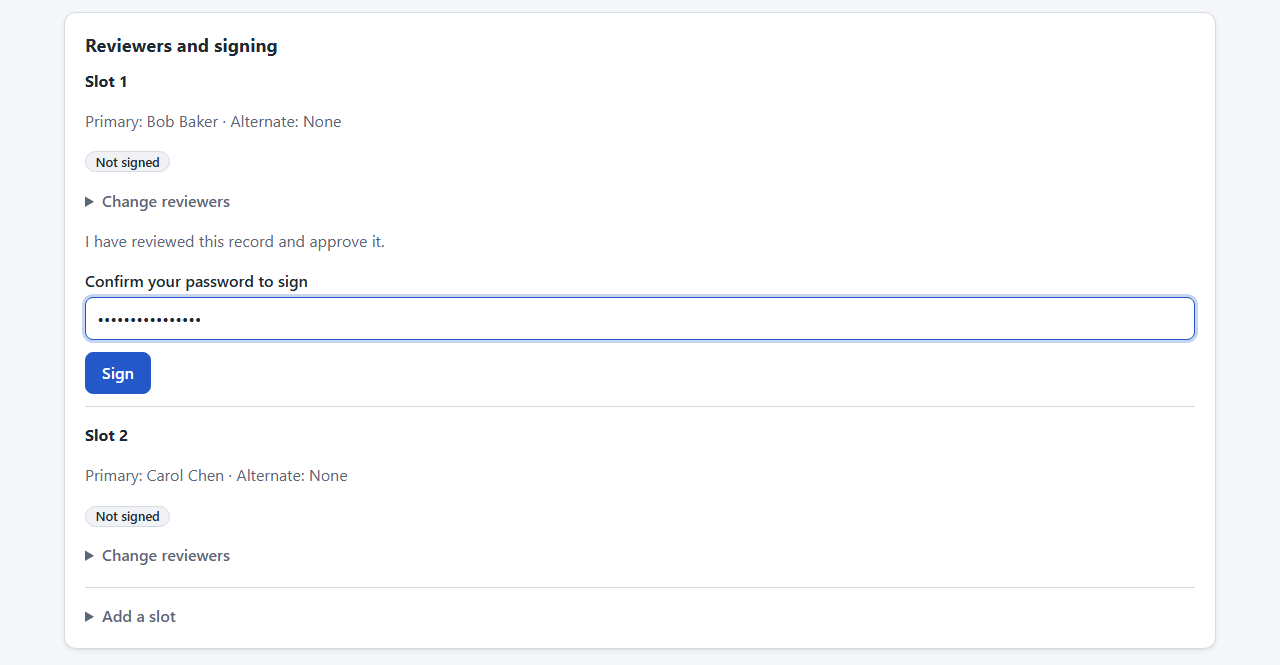
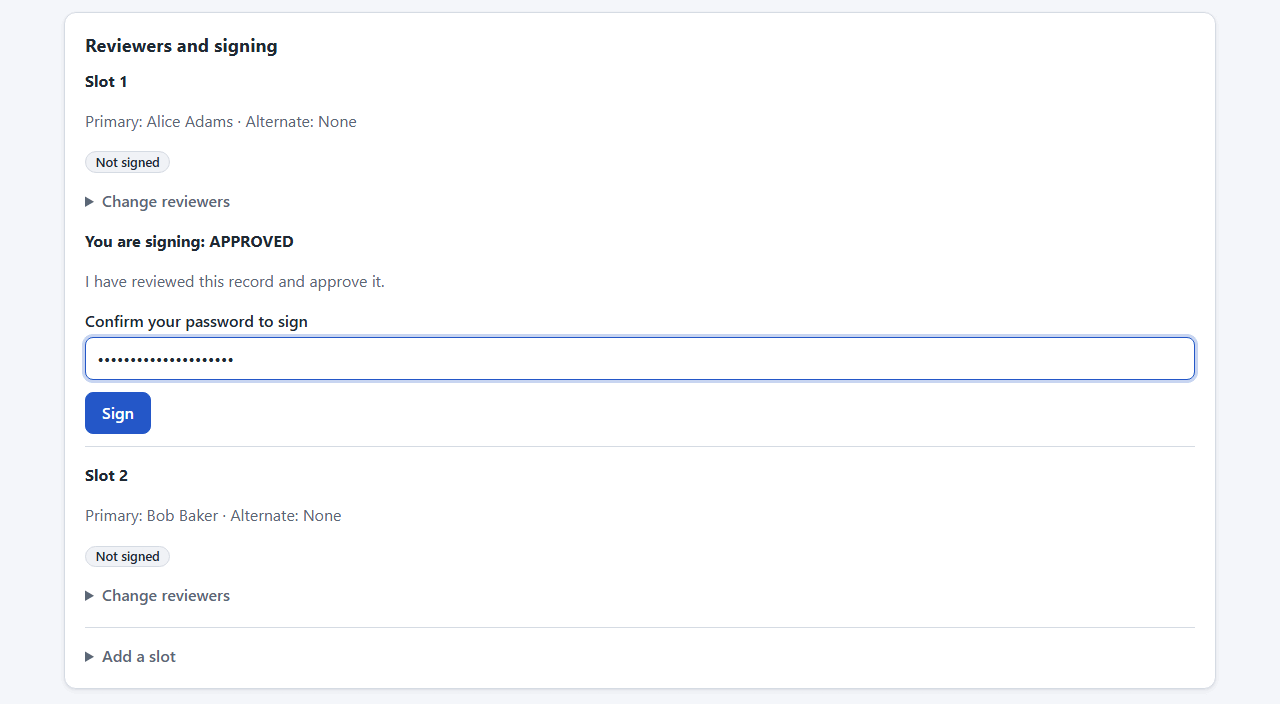
Refresh README and user guide screenshots

Changed region(s): [[0.0625, 0.0602, 0.9375, 0.8722], [0.0625, 0.9023, 0.1562, 0.9624]]

diff --git a/docs/user_guide/reviewing.md b/docs/user_guide/reviewing.md
@@ -248,6 +248,8 @@ so for them Disputed is the row that applies: when the ballots differ and are no
 at most one of To answer, Disputed, Ready to sign and Waiting for others for you, and the inbox agrees with the
 next-step line of the review page. **To answer** opens the checklist, where your ballot is.
 
+![The inbox of a reviewer, with the reviews to answer and the reviews ready to sign.](images/review-inbox.png)
+
 A **Question for you** row opens the review page, where the thread is. A thread has no addressee, so ReviewCenter guesses:
 an open question that someone else started, in which you have not written yet, is shown to every slot holder of the
 review who may take part (the author of the review is told by Replies waiting instead).
@@ -323,6 +325,8 @@ It shows:
   has not handed in a ballot still sees each change with its time and who made it, but the details of hidden answers,
   comments and discussions about checks are replaced by one neutral sentence until the ballot is handed in.
 
+![The Where are we? panel of a review: two reviewers handed in, a dispute, open threads, and the next step.](images/review-status-panel.png)
+
 ## Review Comments
 
 Select a file on the review page to read it as numbered lines and to discuss it in comment threads. The line at the
@@ -338,7 +342,7 @@ All when the review is concluded or has only resolved threads, so that the list 
 row to show that thread: its file is selected, its lines are highlighted, and the page scrolls to them. The summary line
 above shows the number of open questions and open findings.
 
-![A side-by-side diff of a review file with one open and one resolved thread.](images/review-diff-thread.png)
+![A side-by-side diff with a gray Question thread and an amber Finding thread.](images/review-diff-thread.png)
 
 Every thread is one of two kinds. A **Question** is a conversation: it is chat, it is not part of the signed record, and
 it is marked with a speech-bubble icon and the word Question. A **Finding** is something that goes into the report: its
@@ -469,7 +473,7 @@ a "Next unanswered check" button that opens the section of the first unanswered 
 Below that, every section is listed with its progress (for example "3 of 8"); only one section is open at a time,
 and the first section with unanswered checks is open when you arrive.
 
-![The checklist page: two sections done, one in progress, and a justified N/A answer.](images/checklist-partial.png)
+![The checklist page of a draft ballot: two sections done, one in progress, and a justified N/A answer.](images/checklist-partial.png)
 
 **You answer in the ballot of your reviewer slot.** The checklist is answered by the reviewers of the slots of the
 review (the primary and the alternate of a slot share its ballot). A project member who has no slot can add a new slot
@@ -754,7 +758,7 @@ are open"). When the only thing missing is the conclusion text, the slot says "A
 stating the reasons". Each signature records your name, your role in the slot (primary or alternate), the UTC time, the
 outcome you signed (Approved or Rejected), and the statement.
 
-![The signing form of a reviewer slot with the statement and password confirmation.](images/signature-confirmation.png)
+![The signing form of a reviewer slot, with the outcome you are signing, the statement, and password confirmation.](images/signature-confirmation.png)
 
 **What a signature covers.** A signature is bound to the record as it was when you signed. The record is the content
 fingerprint of the files, the wording of every checklist question, the consolidated standing of the submitted ballots
@@ -975,7 +979,7 @@ fingerprint**, a SHA-256 value of those ballots, so that a later change of a bal
 for a concluded review, because only then every slot has handed in its ballot, and never as a draft. The reviewer names
 and the checklist wording follow the evidence settings (see below).
 
-![An approved review with the Download attestation (PDF) button and the signing key note.](images/review-signed.png)
+![An approved review with the Where are we? panel, the resolved finding, and the Download attestation (PDF) button.](images/review-signed.png)
 
 **What the PDF contains follows the evidence settings of the project.** Every attestation PDF of a project, whoever
 downloads it, honors the five content switches of the project: the review discussion threads (the findings), the

diff --git a/tools/puppet/README.md b/tools/puppet/README.md
@@ -118,14 +118,34 @@ Actions fail after about 5 seconds so a wrong selector costs little.
 
 The screenshots in `docs/user_guide/images/` are taken with Puppet against a throwaway instance, never against real
 data. Point `Database__ConnectionString`, `DataProtection__KeysPath`, `Attestation__SelfSignedFolder`, and
-`Git__CachePath` at a temporary folder outside the repository, create two or three users with `user add`, run `serve`,
-and start Puppet with `--viewport 1280x800`. Seed a small project with a repository (or an upload), threaded comments,
-a partly answered checklist, and a signed review through the UI, then take each picture with
-`puppet screenshot <file> --full` in the light theme (plus one review with `puppet theme dark`). Crop each picture to
-its content and shrink it, for example
+`Git__CachePath` at a temporary folder outside the repository, create three users with `user add` (one administrator
+and two reviewers, for example Carol Chen, Alice Adams, and Bob Baker), run `serve`, and start Puppet with
+`--viewport 1280x800`. Use one Puppet daemon for each person at a time (at most two): give each its own
+`REVIEWCENTER_PUPPET_CONTROL_FILE` so that two people can be signed in side by side.
+
+Seed one project ("Warehouse Inventory") with a Git repository and three reviews through the UI:
+
+- A review that is fully answered and handed in by both reviewers. It fills the inbox.
+- A review that is only partly answered, with a justified N/A answer. It gives the checklist picture.
+- A review whose ballots differ on one check, with a Question and a Finding thread in the diff. It gives the status
+  panel and both diff pictures; resolve the threads, sign with both slots, and it becomes the approved review with the
+  attestation PDF.
+
+Take each picture with `puppet screenshot <file> --full` in the light theme (plus the diff with `puppet theme dark`,
+after a pause of about a second). Crop each picture to its content and shrink it, for example
 `magick raw.png -crop 1280x700+0+120 +repage -strip -colors 256 +dither PNG8:out.png`
 (at most about 150 KB each, 1280 pixels wide), leave the page footer out, and stop the server and Puppet by process ID
-afterward.
+afterward. No script is kept for this: the data is small, and the pictures change only when the pages do.
+
+| Picture | Page |
+| ------- | ---- |
+| `review-inbox.png` | Inbox of a reviewer |
+| `review-status-panel.png` | Review with open threads and a dispute |
+| `review-diff-thread.png`, `review-diff-dark.png` | Diff with a Question and a Finding |
+| `review-signed.png`, `review-signatures.png` | Approved review |
+| `signature-confirmation.png` | Signing form, password typed, not yet signed |
+| `checklist-partial.png` | Checklist of the partly answered review |
+| `home-after-sign-in.png`, `audit-trail.png` | Home page and Audit page of the administrator |
 
 ## Known limitation
 

diff --git a/README.md b/README.md
@@ -13,7 +13,11 @@
 
 Web service and command-line tool for formal code reviews with a tamper-evident audit trail
 
-![A review as a side-by-side diff with a discussion thread][image-review-diff-thread]
+![A reviewer's inbox with the reviews to answer and the reviews ready to sign][image-review-inbox]
+
+![A review page with the Where are we? status panel and its next step][image-review-status-panel]
+
+![A side-by-side diff with a Question thread and a Finding thread][image-review-diff-thread]
 
 ![An approved review with the signed attestation PDF download][image-review-signed]
 
@@ -137,6 +141,8 @@ By contributing to this project, you agree that your contributions will be licen
 [badge-security]: https://sonarcloud.io/api/project_badges/measure?project=demaconsulting_ReviewCenter&metric=security_rating
 
 <!-- Image References -->
+[image-review-inbox]: https://raw.githubusercontent.com/demaconsulting/ReviewCenter/main/docs/user_guide/images/review-inbox.png
+[image-review-status-panel]: https://raw.githubusercontent.com/demaconsulting/ReviewCenter/main/docs/user_guide/images/review-status-panel.png
 [image-review-diff-thread]: https://raw.githubusercontent.com/demaconsulting/ReviewCenter/main/docs/user_guide/images/review-diff-thread.png
 [image-review-signed]: https://raw.githubusercontent.com/demaconsulting/ReviewCenter/main/docs/user_guide/images/review-signed.png
 

diff --git a/docs/user_guide/sign-in.md b/docs/user_guide/sign-in.md
@@ -43,7 +43,7 @@ never prints the password. Further users are created on the Users page by a syst
 be created (the user name is taken, the password is too short, no password was provided, or the database cannot be
 used) it prints an error and exits with a non-zero exit code.
 
-![The home page after first sign-in, with links to Projects, Audit, and Users.](images/home-after-sign-in.png)
+![The home page after first sign-in, with links to Inbox, Projects, Audit, and Users.](images/home-after-sign-in.png)
 
 ## Sign In and Out
 
@@ -215,7 +215,7 @@ dark setting of your device; **Light** and **Dark** always use that theme. The c
 it and is remembered in this browser only: it is not an account setting, so another browser or device starts with
 **System** again.
 
-![A review in the dark theme, with a resolved thread open in the side-by-side diff.](images/review-diff-dark.png)
+![A review in the dark theme, with a Question and a Finding thread in the side-by-side diff.](images/review-diff-dark.png)
 
 To change your password, enter the current password and the new
 password, and press the change button. If your account has a second factor (see
